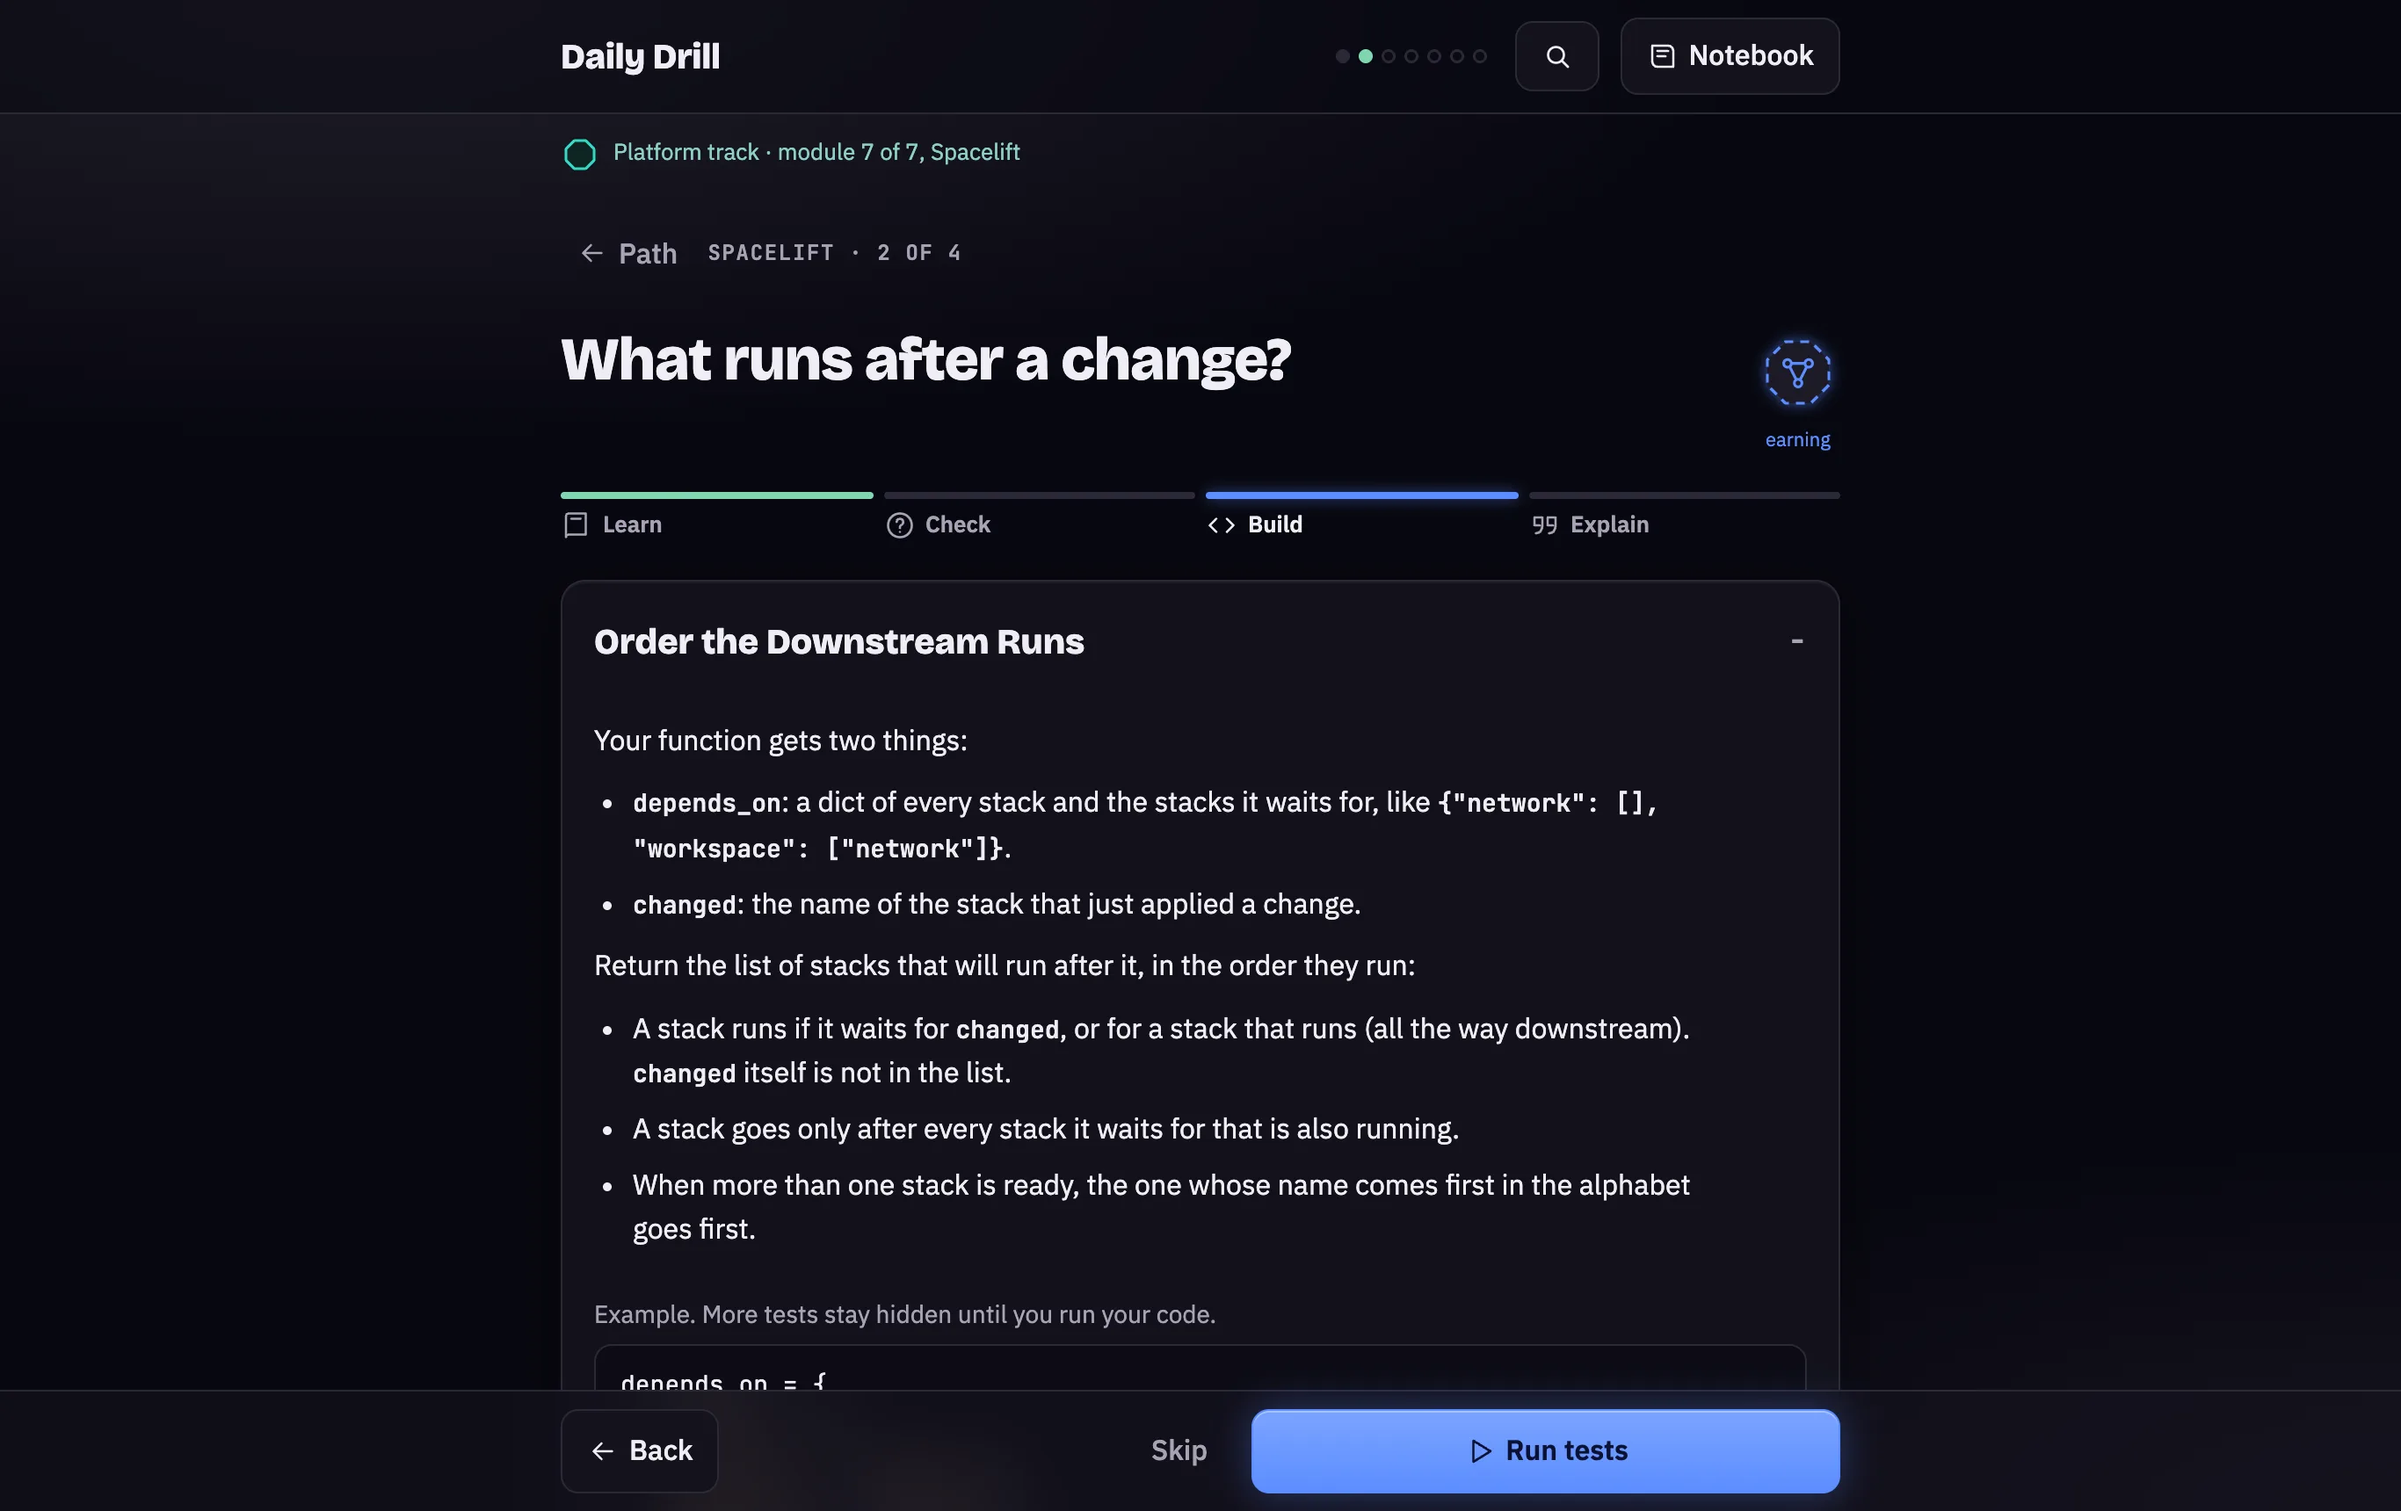
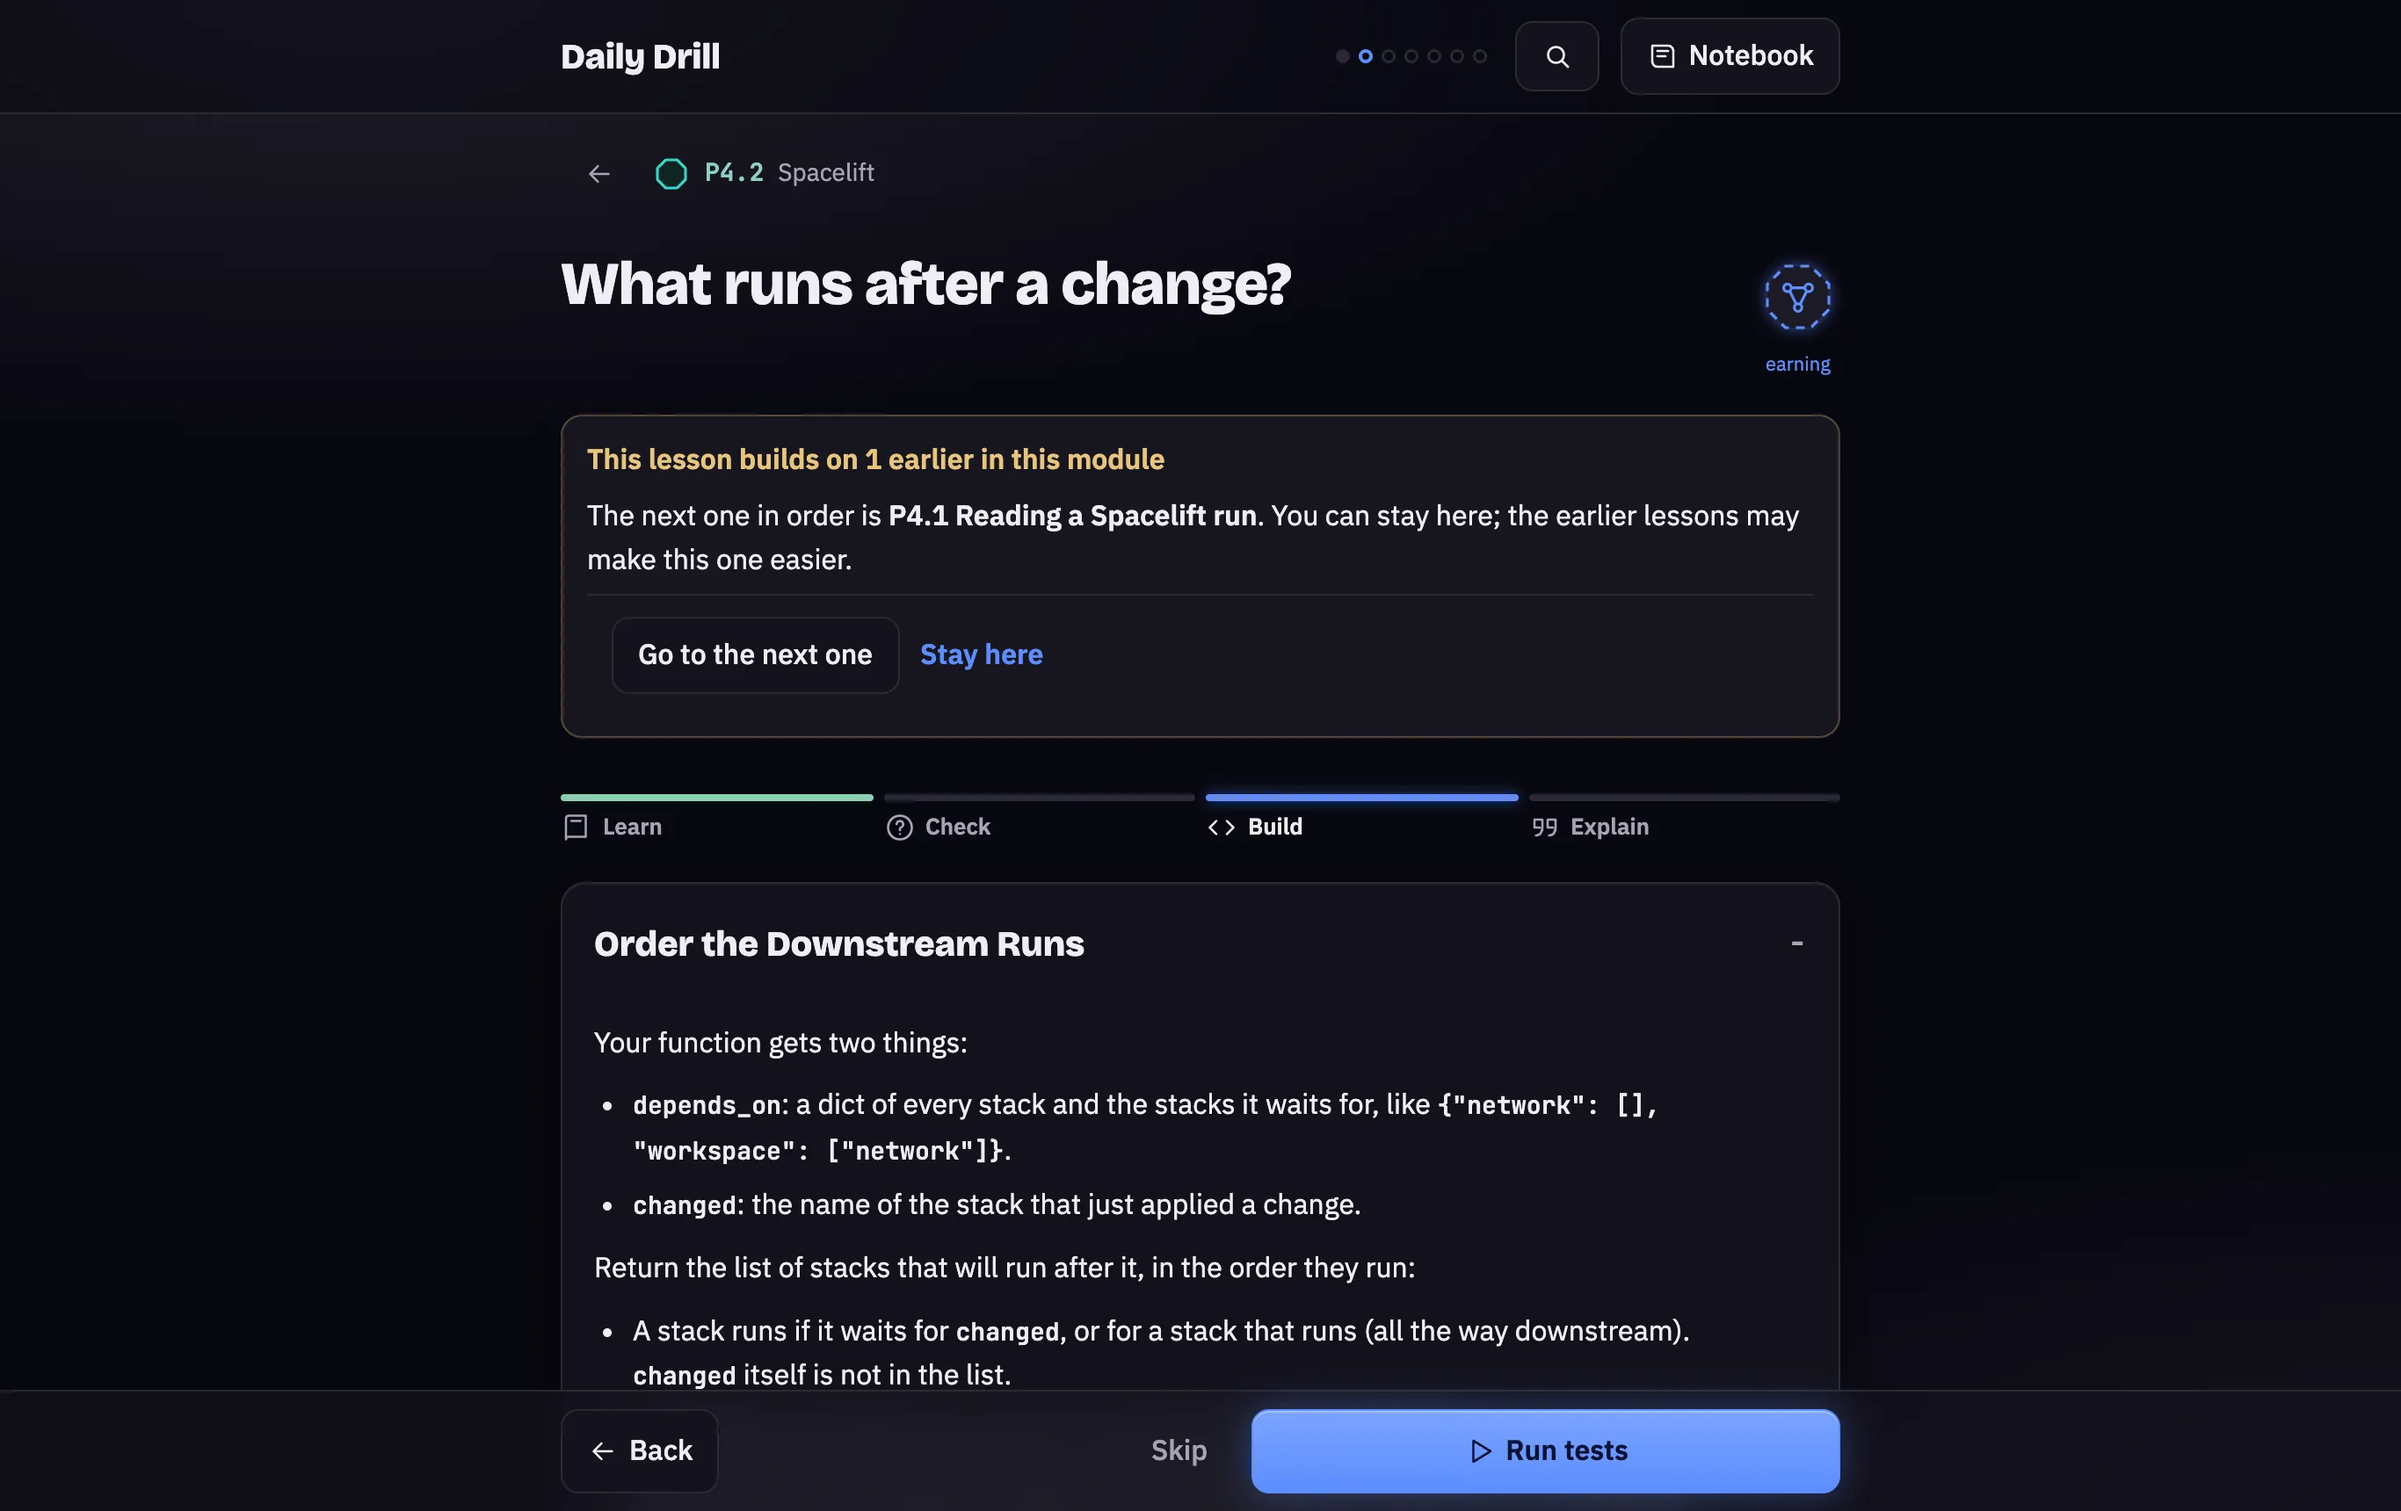
Screens: retake the gallery for the one-line lesson header and the new track order

diff --git a/docs/screens/README.md b/docs/screens/README.md
@@ -37,7 +37,7 @@ then the path: six phase tabs on a violet strip, joined to the phase's room belo
 shows "How it works" instead of the next lesson.
 
 **What draws it.** `renderHome()` in the `home: the learning path` section; the tabs are
-`railHtml(false, ...)`; the card is `.next`. Colours: `--accent` for the button, `--path*` for the
+`railHtml(null, viewing)`; the card is `.next`. Colours: `--accent` for the button, `--path*` for the
 strip.
 
 **Change it safely.** Keep one primary button. New home sections go between `${upnext}` and
@@ -77,11 +77,13 @@ teal comes from the `--track*` tokens.
 
 ![The Learn step on a phone](lesson-learn-phone-dusk.webp)
 
-**What the learner sees.** Where they are, the title and the sticker they'll earn, the four-step
-stepper, then the lesson text and its example.
+**What the learner sees.** One line saying where they are (back, the phase's shape, "1.1 Use case
+and fit"), the title and the sticker they'll earn, the four-step stepper, then the lesson text and
+its example.
 
-**What draws it.** `openLesson()` then `setStep(0)` → `learnPane()`; the stepper and bottom bar
-are `setStep()` and `renderFoot()`.
+**What draws it.** `openLesson()` → `lessonBar()` for the line, then `setStep(0)` → `learnPane()`;
+the stepper and bottom bar are `setStep()` and `renderFoot()`. Styles `.lessonbar`, `.lb-shape`,
+`.lb-t`.
 
 **Change it safely.** Lesson words live in `modules/<module>.py` (`learn=`, `example=`). The
 bottom bar has one primary button, "Next".
